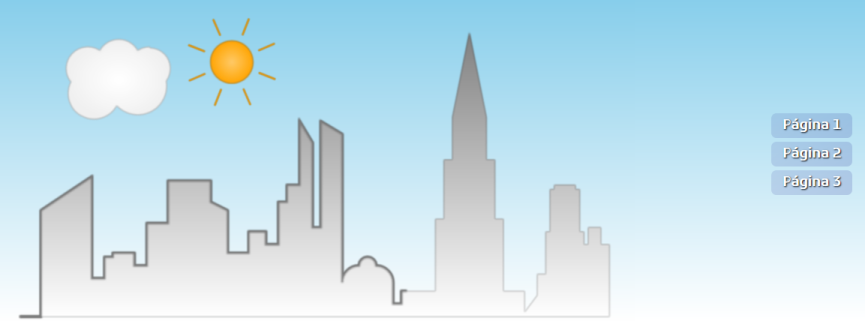
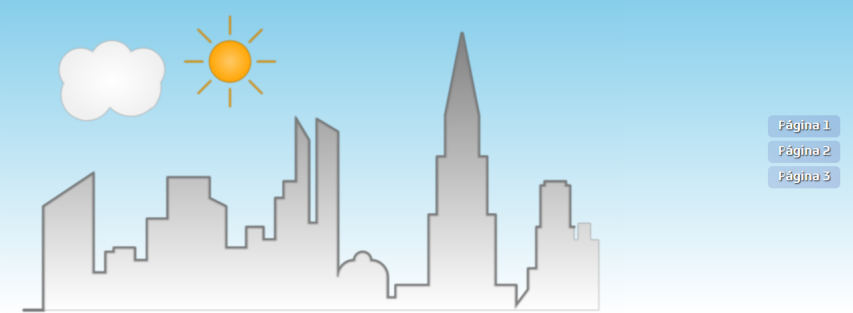
update

diff --git a/README.md b/README.md
@@ -2765,6 +2765,78 @@
 	<img src="css4/tags001_0050.png" />
 	<p class="topop"><a href="#css4" class="topo">voltar ao topo</a></p>
 	<img src="css4/tags001_0051.png" />
+	<details class="sub"><summary>&#x1f4c3; 9<sup>o</sup> banner</summary>
+	<p>Vamos criar o outro banner em uma nova classe: <code>class="banner2"</code>.</p>
+	  <ul class="slider">
+		  <li>
+			   <input type="radio" id="366" name="sl">
+			   <label for="366"></label>
+			   <img src="css4/51_01_00.png" />
+			   <figcaption>Neste banner, vamos criar a paisagem junto com a logomarca e o menu. Ao invés de usar <code>class="barra"</code>, vamos criar a estrutura <code>&lt;svg&gt;</code> dentro da tag <code>class="banner2"</code>.</figcaption>
+		   </li>
+		  <li>
+			   <input type="radio" id="367" name="sl">
+			   <label for="367"></label>
+			   <img src="css4/51_01_01.png" />
+			   <figcaption>No arquivo CSS, vamos definir os atributos da classe <code>.banner2</code>. A altura máxima será fixada em 470px, com largura <code>flex:3</code>. O fundo pode ter o mesmo efeito de gradiente usado no desenho SVG.</figcaption>
+		   </li>
+		   <li>
+			   <input type="radio" id="368" name="sl">
+			   <label for="368"></label>
+			   <img src="css4/51_01_02.png" />
+			   <figcaption>O menu terá largura <code>flex:1</code> e pode ser configurado na vertical (column) e com alinhamento à direita (flex-end). Veja qual configuração fica melhor no seu layout de banner. Podemos definir o tamanho da fonte da tag <code>textpath</code>, que usaremos adiante.</figcaption>
+		   </li>
+		   <li>
+			   <input type="radio" id="369" name="sl">
+			   <label for="369"></label>
+			   <img src="css4/51_01_03.png" />
+			   <figcaption>No grupo <code>id="fumaca"</code>, o efeito de desenhar os elementos necessita de um tracejado menor, de 150px. O mesmo efeito da xícara, de deslocamento do início do tracejado foi aplicado à fumaça e ao texto da logomarca.</figcaption>
+		   </li>
+		   <li>
+			   <input type="radio" id="370" name="sl">
+			   <label for="370"></label>
+			   <img src="css4/51_01_04.png" />
+			   <figcaption>Podemos definir efeito de opacidade na fumaça e no texto. Neste caso, foi colocada opacidade inicial de 0.5, com a animação variando entre 0.5 e 1.</figcaption>
+		   </li>
+		   <li>
+			   <input type="radio" id="371" name="sl">
+			   <label for="371"></label>
+			   <img src="css4/51_01_05.png" />
+			   <figcaption>O efeito no início da animação fica assim.</figcaption>
+		   </li>
+		   <li>
+			   <input type="radio" id="372" name="sl">
+			   <label for="372"></label>
+			   <img src="css4/51_01_06.png" />
+			   <figcaption>E no final, com opacidade e os desenhos dos contornos completos, fica dessa forma. Ajuste os valores para animação no seu banner da xícara.</figcaption>
+		   </li>
+		   <li>
+			   <input type="radio" id="373" name="sl">
+			   <label for="373"></label>
+			   <img src="css4/51_01_07.png" />
+			   <figcaption>E no final, com opacidade e os desenhos dos contornos completos, fica dessa forma. Ajuste os valores para animação no seu banner da xícara.</figcaption>
+		   </li>
+		   <li>
+			   <input type="radio" id="374" name="sl">
+			   <label for="374"></label>
+			   <img src="css4/51_01_08.png" />
+			   <figcaption>E no final, com opacidade e os desenhos dos contornos completos, fica dessa forma. Ajuste os valores para animação no seu banner da xícara.</figcaption>
+		   </li>
+		   <li>
+			   <input type="radio" id="375" name="sl">
+			   <label for="375"></label>
+			   <img src="css4/51_01_09.png" />
+			   <figcaption>E no final, com opacidade e os desenhos dos contornos completos, fica dessa forma. Ajuste os valores para animação no seu banner da xícara.</figcaption>
+		   </li>
+		   <li>
+			   <input type="radio" id="376" name="sl">
+			   <label for="376"></label>
+			   <img src="css4/51_01_10.png" />
+			   <figcaption>E no final, com opacidade e os desenhos dos contornos completos, fica dessa forma. Ajuste os valores para animação no seu banner da xícara.</figcaption>
+		   </li>
+		</ul>
+		<img src="css4/51_01_00.png" class="fundo" style="visibility:hidden"/>
+  </details>
 	<img src="css4/tags001_0051a.png" />
 	<p class="topop"><a href="#css4" class="topo">voltar ao topo</a></p>
 	<img src="css4/tags001_0052.png" />
